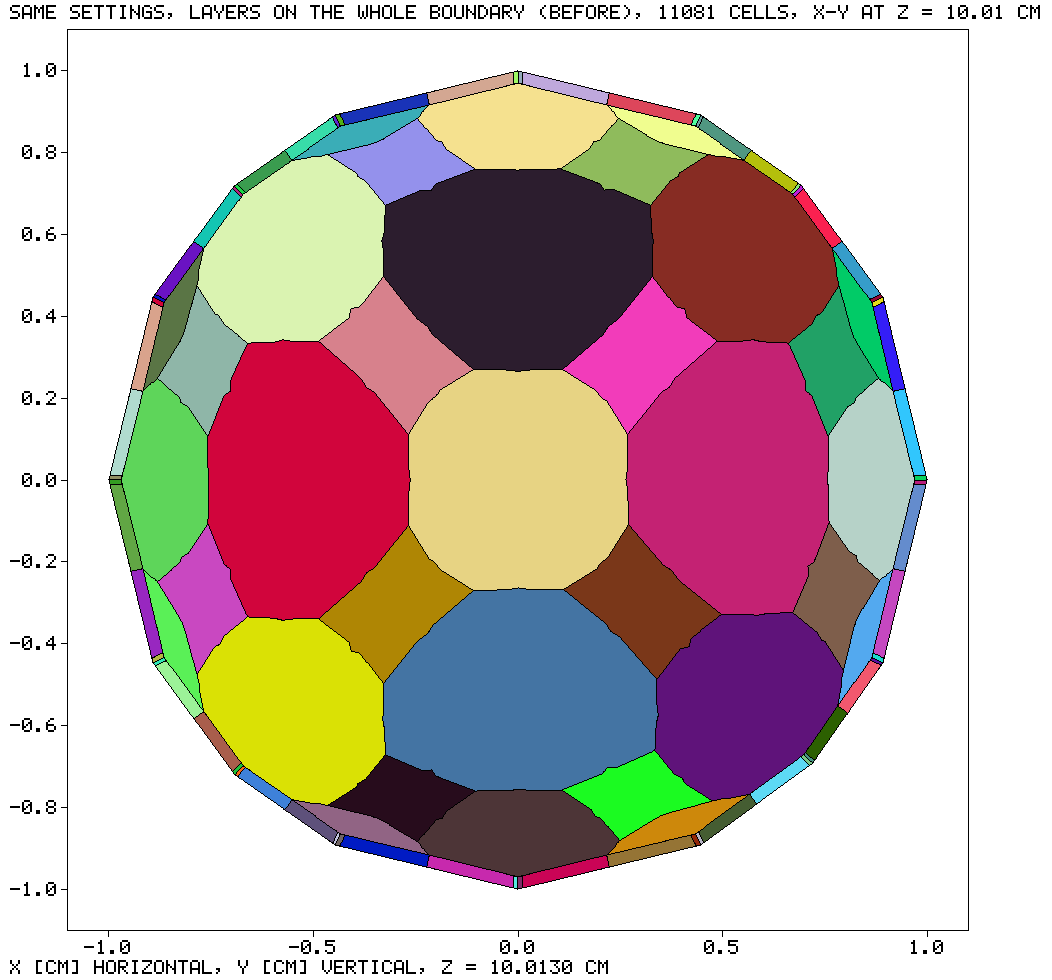
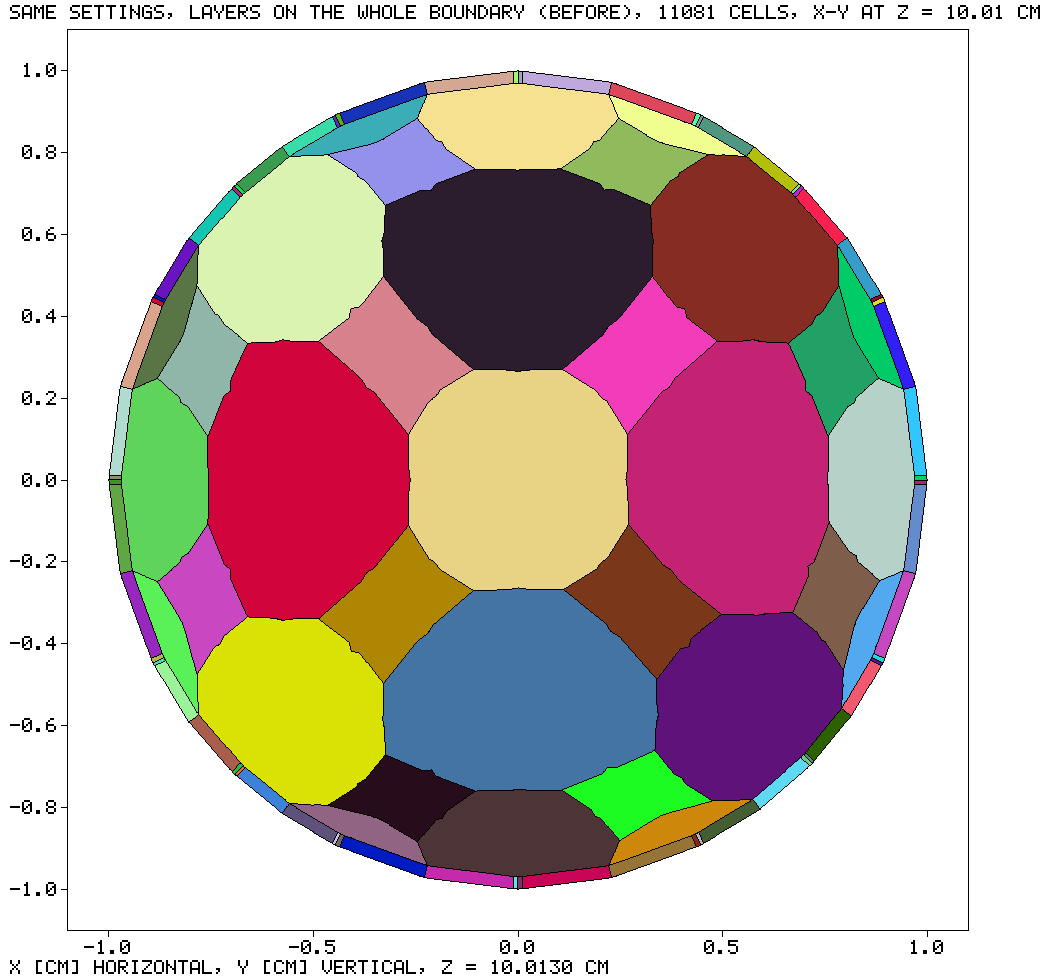
Pipe: layered vs bare at matched cell count, images, docs and pins; open items recorded (gh:#1202)
Layers do not bring tau_w or dp/dz closer to Hagen-Poiseuille at matched
cell count on this mesh family. Demo pin moves to 0.8925 / 1.0326 (old
pins struck). READMEs and the V&V record list the remaining gap.

Claude-Session: https://claude.ai/code/session_01HxmCueofxcJNMntRMmjqoW

diff --git a/crates/dhoby-ghaut/examples/foam_studio_web/engine.rs b/crates/dhoby-ghaut/examples/foam_studio_web/engine.rs
@@ -192,9 +192,13 @@ pub const MAX_LAYERS: usize = 3;
 impl TetDualSpec {
     /// The demo's default for a pipe of radius `radius`: cell 0.4 R, **no
     /// layer** (first layer 0.03 R and expansion 1.2 for when layers are asked
-    /// for). On the demo pipe: 6 353 cells, meshed in about 0.5 s, 61 steps
+    /// for). On the demo pipe: 6 353 cells, meshed in about 0.5 s; ~~61 steps
     /// and about 9 s natively with `Gauss linear` convection, u_c/2U 0.942,
-    /// dp/dz 0.941 × HP (the V&V record). History, all 2026-11-04: ~~2 layers,
+    /// dp/dz 0.941 × HP~~ **UPDATED 2026-11-04 (gh:#1202)**, with the
+    /// feature-edge capture (the inlet now spans 0.9936 πR², was 0.9396) and
+    /// the tutorials' `linearUpwind` + `cellLimited` convection: 29 steps,
+    /// about 5 s, u_c/2U 0.8925, dp/dz 1.0326 × HP (the V&V record). History,
+    /// all 2026-11-04: ~~2 layers,
     /// cell R/2 (18 377 cells)~~ diverged in the solve, as every mesh with 2+
     /// layers did; ~~1 layer, cell R/2 (10 745)~~ and ~~1 layer, cell 0.6 R
     /// (6 713)~~ ran but, with one layer, sit further from Hagen–Poiseuille
@@ -906,7 +910,8 @@ impl Engine {
         let mesh_s = bugis::web_demo::platform::now_s() - t0;
         let quality = outram_foam_mesh::mesh_quality::assess_quality(&poly.to_foam_poly_mesh());
         // Some cfMesh settings leave a near-degenerate cell (the sweep of
-        // 2026-11-04: h 4 mm with 2 layers, skewness 251); say so on the page.
+        // 2026-11-04 before the feature-edge capture and the layer quality
+        // limits: h 4 mm with 2 layers, skewness 251); say so on the page.
         if quality.max_non_ortho_deg >= 89.0 || quality.max_skewness > 20.0 {
             notes.push(format!(
                 "warning: near-degenerate cells (max non-orthogonality {:.1}°, skewness {:.0}); the solve may be poor or diverge, try another cell size",
@@ -1069,8 +1074,8 @@ impl Engine {
         // `limitedLinearV 1` (elbow) or `linearUpwind grad(U)`.
         if matches!(self.design.map(|d| d.mesh), Some(PipeMesh::Unstructured(_))) {
             s.solution.pimple.n_non_orthogonal_correctors = NON_ORTH_UNSTRUCTURED;
-            // Convection: `Gauss linear` on the unstructured mesh (gh:#1202,
-            // 2026-11-04). Upwind on faces oblique to the flow adds cross-stream
+            // ~~Convection: `Gauss linear` on the unstructured mesh~~ (gh:#1202,
+            // 2026-11-04, superseded below). Upwind on faces oblique to the flow adds cross-stream
             // false diffusion of order U·h (Patankar 1980, §5.6), 10-15× ν here:
             // it flattened the developed profile to u_c/2U 0.62. The tutorials on
             // unstructured meshes use second-order upwind-biased schemes
@@ -2355,11 +2360,12 @@ mod tests {
     /// Re = 100, reaches the steady criterion and conserves mass; its patches
     /// arrive named `inlet`, `outlet`, `walls` (typed wall); its developed
     /// numbers are pinned where the V&V record measured them on 2026-11-04
-    /// (`laminar_pipe_gh1155.md`, gh:#1202 section) with `Gauss linear`
-    /// convection and 2 correctors: u_c/2U 0.9416, dp/dz 0.9414 × HP, 6 %
-    /// low, converging with refinement (0.969 / 0.975 at h = R/3). Earlier
+    /// (`laminar_pipe_gh1155.md`, gh:#1202 section): with the feature-edge
+    /// capture and `linearUpwind grad(U)` + `cellLimited Gauss linear 1`,
+    /// 2 correctors: u_c/2U **0.8925**, dp/dz **1.0326** × HP. Earlier
     /// pins, struck: ~~h 6 mm, 1 layer, upwind: 0.6105 / 1.2452 (`limited 0`),
-    /// then 0.6179 / 1.3355 (`limited corrected 0.33`, 2 correctors)~~.
+    /// then 0.6179 / 1.3355 (`limited corrected 0.33`, 2 correctors)~~;
+    /// ~~h 4 mm, `Gauss linear`, chamfered rim: 0.9416 / 0.9414~~.
     /// Pinned so that a change is seen. Deterministic: run twice, the same
     /// lines.
     #[test]
@@ -2376,8 +2382,8 @@ mod tests {
         assert!(joined.contains("6353 cells"), "{joined}");
         let pipe = lines.iter().find(|l| l.starts_with("# pipe (")).expect("pipe line");
         let val = |k: &str| -> f64 { pipe.split_whitespace().find_map(|t| t.strip_prefix(k)).and_then(|v| v.parse().ok()).expect(k) };
-        assert!((val("uc=") - 0.9416).abs() < 2e-3, "{pipe}");
-        assert!((val("dpdz=") - 0.9414).abs() < 2e-3, "{pipe}");
+        assert!((val("uc=") - 0.8925).abs() < 2e-3, "{pipe}");
+        assert!((val("dpdz=") - 1.0326).abs() < 2e-3, "{pipe}");
         let last = lines.iter().rev().find(|l| !l.starts_with('#')).unwrap();
         let out_in: f64 = last.split_whitespace().nth(4).unwrap().parse().unwrap();
         assert!((out_in - 1.0).abs() < 1e-8, "{last}");

diff --git a/crates/dhoby-ghaut/examples/foam_studio_web/app.rs b/crates/dhoby-ghaut/examples/foam_studio_web/app.rs
@@ -466,7 +466,11 @@ impl FoamApp {
                 }
                 if c.n_layers >= 2 {
                     ui.label(
-                        RichText::new("2 or more layers: on every mesh tried so far the solve diverges (the V&V record, gh:#1202). 0 or 1 layer runs.")
+                        RichText::new(if c.n_layers >= 3 {
+                            "3 layers: the solve diverges on the meshes tried (one dual cell over the layer stack, the V&V record, gh:#1202). 0-2 layers run."
+                        } else {
+                            "2 layers run; on this mesh they do not bring the pipe closer to Hagen–Poiseuille than a finer bare mesh (the V&V record, gh:#1202)."
+                        })
                             .small()
                             .color(Color32::from_rgb(250, 189, 47)),
                     );

diff --git a/crates/dhoby-ghaut/examples/foam_studio_web/main.rs b/crates/dhoby-ghaut/examples/foam_studio_web/main.rs
@@ -28,7 +28,9 @@
 //!   `outram_foam_mesh::block_primitives` (the pipe O-grid, the box block),
 //!   and, for the cylinder's **Unstructured** choice (gh:#1202), the cfMesh
 //!   port through `outram_blender::foam_mesh` (tet → polyhedral dual →
-//!   wall-only prism layers, `Gauss linear` convection; 3-6 % below Hagen–Poiseuille, see the V&V
+//!   feature-edge capture, wall-only prism layers, `linearUpwind grad(U)`
+//!   with `cellLimited Gauss linear 1` convection; at the default u_c/2U
+//!   0.89 and dp/dz 1.03 × Hagen–Poiseuille, an open gap, see the V&V
 //!   record's gh:#1202 section);
 //!   the solve is `outram_foam_appbuilder_lib`'s `PimpleFoam` with
 //!   `cases::laminar_pipe`'s boundary conditions. V&V record:

diff --git a/crates/outram-foam-appbuilder-lib/verification_and_validation/laminar_pipe_gh1155.md b/crates/outram-foam-appbuilder-lib/verification_and_validation/laminar_pipe_gh1155.md
@@ -697,7 +697,7 @@ Hagen–Poiseuille relates the centreline velocity and the gradient to the
 flow rate through the section: u_c = 2Q/A, −dp/dz = 8μQ/(πR⁴). The
 nominal normalisation assumes Q = U πR², which is a property of the
 mesh's inlet patch, not of the solution; on the dual it is false by 6 %.
-So, for "does the solver reproduce Hagen–Poiseuille", the right
+~~So, for "does the solver reproduce Hagen–Poiseuille", the right
 instrument is **(b), the fit intercept, normalised by the flow the case
 carries: u_c/2U_b and dp/dz/(8νU_b/R_eq²) with U_b = Q/A** (both exact
 quantities), with (a′) beside it as the whole-profile check. The nominal
@@ -705,7 +705,12 @@ numbers stay reported, because they are what the demo shows and they say
 the demo runs at Re ≈ 94, not 100: **that is a defect of the case**
 (the inlet does not span the pipe) and it is listed to fix, not normalised
 away. On the O-grid the two normalisations differ by the 24-gon's area
-(1.1 %), so the structured record keeps its nominal numbers.
+(1.1 %), so the structured record keeps its nominal numbers.~~
+**CORRECTED (maintainer direction via the coordinator, 2026-11-04): the
+bar's instrument is the nominal one**, u_c and dp/dz against
+Hagen–Poiseuille for the U and R the user set; the flow-normalised numbers
+are diagnostics. The case must carry the flow it says it does, so the
+chamfer was fixed at its source (below), not normalised away.
 
 **Verdict.** The instruments agree that the demo setting's u_c really is
 low: **11 % against its own flow**, with an RMS three times
@@ -1056,7 +1061,61 @@ the pairs below differ by less than 3 % in τ_w/HP and dp/dz/HP, in either
 direction, and the bare mesh at the smaller h is the closer one. Reason:
 at h = 4–6 mm the error is in the core (the profile shape), not in the
 wall gradient, and a layer costs a whole wall's worth of cells that the
-bare mesh spends on the core. **The structured default moved:**
+bare mesh spends on the core.
+
+**Results (2026-11-04, current code: weights, feature-edge capture, layer
+quality limits, warm-started momentum; Re = 100; nominal instrument;
+`FOAM_SWEEP=matched`):**
+
+| cells | mesh | demo pair: steps, u_c/2U, **dp/dz/HP**, RMS, **τ_w/HP** | `Gauss linear`: steps, u_c/2U, **dp/dz/HP**, RMS, **τ_w/HP** |
+|---|---|---|---|
+| 6 353 | h 4 mm, no layer (**default**) | 29, 0.8925, **1.0326**, 0.0356, **1.0312** | 63, 0.9811, **0.9673**, 0.0126, **0.9638** |
+| 6 713 | h 6 mm, 1 layer | 23, 0.8071, 1.0565, 0.0733, 1.0514 | 76, 0.9453, 0.8882, 0.0222, 0.8840 |
+| 11 177 | h 3.3 mm, no layer | 37, 0.9606, **0.9838**, 0.0214, **0.9802** | 54, 0.9669, **0.9632**, 0.0161, **0.9596** |
+| 10 745 | h 5 mm, 1 layer | 28, 0.8954, 0.9705, 0.0509, 0.9678 | 63, 0.9440, 0.9011, 0.0262, 0.8978 |
+| 11 487 | h 6 mm, 2 layers | 39, 0.8079, 1.0883, 0.0729, 1.0653 | 80, 0.9483, 0.9029, 0.0222, 0.8902 |
+| 18 321 | h 4 mm, 1 layer | 73, 0.8907, 1.0301, 0.0372, 1.0215 | 95, 0.9748, 0.9511, 0.0152, 0.9418 |
+| 18 377 | h 5 mm, 2 layers | 117, 0.8990, 0.9946, 0.0500, 0.9785 | 93, 0.9509, 0.9225, 0.0253, 0.9088 |
+
+The warm start changed none of the rows it shares with the earlier table
+to the printed digits (the h 5 mm, 2-layer mesh is new: the pyramid gate
+thinned it).
+
+**Against the prediction.** "Layers do not improve τ_w or dp/dz at matched
+count": **held**. At ~6.5k and ~11k cells the bare mesh is closer to
+Hagen–Poiseuille in τ_w and dp/dz under both schemes; at ~18k, h 5 mm
+with 2 layers beats h 4 mm with 1 under the demo pair (τ_w 0.979 against
+1.022) and loses under `Gauss linear` (0.909 against 0.942). "Within 3 %
+of each other": **missed**: under `Gauss linear` the layered meshes read
+τ_w 6–8 % lower than the bare one at the same count, and under the demo
+pair the 6 mm meshes read 2–8 % higher. Adding layers at fixed h *does*
+move τ_w (h 6 mm `Gauss linear`: 0.903 bare → 0.884 one layer → 0.890
+two), but not toward 1: the layers resolve a wall gradient that is
+already right to a few per cent, while the coarse core sets the error.
+**On this mesh family wall layers are not the lever for the remaining
+gap**; they are offered in the demo because they run (1–2 layers), not
+because they help here.
+
+### Mesh images after this work (drawn from the `PolyMesh` the solver gets)
+
+New in `laminar_pipe_gh1155/unstructured_gh1202/` (2026-11-04,
+`--render-unstructured`; every older image there was regenerated from the
+current mesher too, and now shows the mapped rim):
+`mapped_h4_bare_*` (the demo default, 6 353 cells),
+`mapped_h4_2layers_*` (30 289), `mapped_h4_3layers_*` (42 257), each as
+`xy` (mid-length), `xz_inlet`, `xz_corner` (inlet rim) and `xy_wall` (a
+3.5 mm wall zoom showing the layer stack).
+
+**Checked by eye:** `mapped_h4_bare_xz_corner.png`: the rim is a square
+corner at (1.0, 0) cm, the inlet flat at z = 0 out to the wall, the wall
+straight at x = 1.0 cm down to the inlet (before: a 2 mm × 5 mm chamfer,
+`unstructured_default_7k_xz_corner.png` in its pre-2026-11-04 version).
+`mapped_h4_3layers_xy_wall.png`: three thin prism layers along the wall,
+total about 0.15 mm, under large dual cells (about 1.2 mm across); the
+layer faces meet the dual cells at a visibly oblique angle where a dual
+cell's centre sits sideways of its wall face, which is the 75–84°
+interface non-orthogonality of the table above. **Not checked:** the
+layer stack at the rim in 3-D (the slices cut it in two planes only). **The structured default moved:**
 ~~dp/dz 1.0151~~ **1.0154**; u_c 0.9940 and the 34 steps are unchanged.
 
 ### Mesh images (drawn from the `PolyMesh` the solver gets)
@@ -1085,15 +1144,43 @@ typed `wall`), not drawn.
 
 ### Unresolved (gh:#1202 follow-ups)
 
-- The dual mesh's flat profile and high dp/dz (above): measure the port's
-  corrected Laplacian and Gauss-linear gradient on the dual against the
-  exact quadratic; compare against OpenFOAM on an exported mesh
-  (`export_polymesh`).
-- 2+ layers diverge; 1 layer runs.
-- No feature-edge capture: bent end faces at the rim, chamfered wall.
+**UPDATED 2026-11-04 (end of the merge work).** Status of each item, and
+what is still open:
+
+- ~~The dual mesh's flat profile and high dp/dz~~: the upwind false
+  diffusion (fixed by second-order convection) and the chamfered inlet
+  (fixed by the feature-edge capture) explained most of it. **Still open:
+  a few-per-cent gap at the demo default** (nominal instrument, the bar's:
+  u_c/2U **0.8925**, dp/dz **1.0326** with the demo's `linearUpwind` +
+  `cellLimited`; 0.9811 / 0.9673 with `Gauss linear`; 0.9597 / 1.0210
+  with unlimited `linearUpwind`). The 2 % bar on both is **not met** by
+  any of them. The `cellLimited` choice is explained against the
+  tutorials above (a laminar smooth flow is the `icoFoam/elbow` case,
+  which has no cell limiter); changing it is the maintainer's call.
+  Comparing against OpenFOAM on an exported mesh (`export_polymesh`) is
+  the next check that would separate the port from the mesh.
+- ~~2+ layers diverge; 1 layer runs.~~ **1 and 2 layers run; 3 diverge**
+  (one shrunk dual cell over the layer stack, 75–84° interface); local
+  layer collapse is not ported.
+- ~~No feature-edge capture~~: ported (`surface_mapper`), without
+  `correctEdgesBetweenPatches` (points that would land a face on the rim
+  stay unmapped: 34 at h 6 mm, 126 at 3.3 mm, 0 at the default).
+- ~~19 inward boundary faces~~: 0 on every layered pipe and duct measured
+  (test `every_boundary_face_points_outward_on_layered_pipes_and_ducts`).
 - ~~`limited` snGrad with a coefficient in (0, 1) is not ported.~~ Ported
-  2026-11-04. `cellLimited` gradients and `linearUpwind` / `limitedLinearV`
-  convection, which the tutorials use, were not tried here.
+  2026-11-04. ~~`cellLimited` gradients and `linearUpwind` /
+  `limitedLinearV` convection, which the tutorials use, were not tried
+  here.~~ `linearUpwind` and `cellLimited` ported and measured;
+  `limitedLinearV` (elbow) is not ported.
+- Port defects found and fixed on the way: the linear interpolation
+  weights (`fvc::linear_weight`, now upstream's `makeWeights`), cfMesh's
+  skewness metric (now `faceSkewness`), the cold-started momentum solve
+  (now warm-started, as upstream). The same weight defect is in
+  `outram-park-fork-coolprop` and `tampines-steam-tables`'
+  `openfoam_source/fv_operators/fvc/interpolate.rs`, not changed here.
+- **Structured default re-checked after all of it:** 34 steps, u_c/2U
+  0.9940, ~~dp/dz 1.0151~~ **1.0154** (the weights fix), RMS 0.0063,
+  τ_w 1.0066.
 
 ## Reproduce
 

diff --git a/crates/outram-foam-appbuilder-lib/README.md b/crates/outram-foam-appbuilder-lib/README.md
@@ -104,7 +104,8 @@ The `ddt` and `div` entries of `FvSchemes` are honoured by `PimpleFoam`:
 |---|---|---|
 | `ddtSchemes` | `Euler` (default), `Backward`, `SteadyState` | `CrankNicolson`, `LocalEuler` → `AppBuilderError::UnsupportedScheme` |
 | Rhie–Chow `ddtCorr` (`ddt_corr_scheme`, follows `ddtSchemes`) | `Euler`, `Backward` (BDF2 form, since 2026-11-01), `SteadyState` (zero) | as above |
-| `divSchemes` | `GaussUpwind` (default), `GaussLinear` | `linearUpwind`, `vanLeer`, `MUSCL`, `limitedLinear` → `AppBuilderError::UnsupportedScheme` |
+| `divSchemes` | `GaussUpwind` (default), `GaussLinear`, `GaussLinearUpwind` (since 2026-11-04, gh:#1202, OpenFOAM-dev `linearUpwind.C`) | `vanLeer`, `MUSCL`, `limitedLinear` → `AppBuilderError::UnsupportedScheme` |
+| `gradSchemes`, the `grad(U)` entry (`FvSchemes::grad_u`, else `default_grad`) | `GaussLinear` (default), `CellLimitedGaussLinear(k)` (since 2026-11-04, `cellLimitedGrad<vector, minmod>`) | `leastSquares`, `fourth` → `UnsupportedScheme` |
 
 An unimplemented selection is an **error, never a silent fallback**. Measured
 effect of choosing `Gauss linear` on the Re = 100 lid-driven cavity, 20×20 mesh
@@ -121,8 +122,12 @@ Re = 100 cavity: upwind RMS against Ghia 0.0363 → **0.0207** (max 0.0634 →
 icoFoam at Re = 10, max |ΔU| / U_lid 0.0144 → **0.0062**. The earlier numbers
 here are the record of the pre-fix solver.
 
-`grad`, `laplacian`, `snGrad` and `interpolation` selections are still only
-**stored** — no solver consults them. (Nothing is *parsed* from disk either:
+~~`grad`, `laplacian`, `snGrad` and `interpolation` selections are still only
+**stored** — no solver consults them.~~ **CORRECTED 2026-11-04:** the
+`laplacian` selection is honoured by `PimpleFoam` since gh:#1161, and the
+`grad(U)` selection since gh:#1202 (by `linearUpwind` and by the momentum
+Laplacian's non-orthogonal correction, as upstream's `correctedSnGrad`);
+`snGrad` and `interpolation` are still only **stored**. (Nothing is *parsed* from disk either:
 `FvSchemes::read` is `todo!()`, so the struct is built in Rust.)
 
 ## Case I/O (`io`)
@@ -239,6 +244,18 @@ This crate is at an early stage of a large port. The following are **known,
 real limitations** as of version 0.1.1 — grounded in the code, not aspirational.
 
 ### Verification & validation
+
+- **Open (gh:#1202, 2026-11-04): the laminar pipe on cfMesh's tet-dual mesh
+  is a few per cent off Hagen–Poiseuille.** At the Foam Studio default
+  (h 4 mm, 6 353 cells, `linearUpwind grad(U)` + `cellLimited Gauss linear
+  1`) u_c/2U is 0.893 and dp/dz 1.033 × HP; with `Gauss linear`, 0.981 and
+  0.967. The structured O-grid is within 1–2 %. Fixed on the way: the
+  interpolation weights (now upstream's `makeWeights`), the chamfered rim
+  (feature-edge capture in the cfMesh port; the inlet carried 6 % too
+  little flow), the inward boundary faces and the 2-layer divergence.
+  Still open: 3 wall layers diverge; layers do not improve τ_w or dp/dz at
+  matched cell count; the remaining gap is in the core at this resolution.
+  Record: `verification_and_validation/laminar_pipe_gh1155.md`.
 
 - **Unverified until validated (see banner).** Only the cases with an explicit
   V&V test are trusted; everything else is untrusted draft. The currently

diff --git a/crates/outram-park-fork-cfmesh/README.md b/crates/outram-park-fork-cfmesh/README.md
@@ -255,9 +255,20 @@ the **whole** boundary, `inlet`/`outlet` included — snappyHexMesh's per-patch
 boundary is named before the layer stage and prisms grow on those patches only
 (`layers::add_boundary_layers_adaptive_on_patches`, a port of cfMesh's
 per-patch `boundaryLayers` border rules). Empty keeps the old whole-boundary
-behaviour. Still missing: **feature-edge capture** (cfMesh's
+behaviour. ~~Still missing: **feature-edge capture** (cfMesh's
 `meshSurfaceEdgeExtractor`), so on a pipe the dual's boundary faces wrap round
-the rim and the "flat" ends reach about a quarter cell up the wall.
+the rim and the "flat" ends reach about a quarter cell up the wall.~~
+**UPDATED 2026-11-04 (gh:#1202):** feature-edge capture is ported
+(`surface_mapper`, cfMesh's `meshSurfaceMapper::mapVerticesOntoSurfacePatches`
+with edge and corner nodes) and runs in the multipatch pipeline after the dual
+(`TetDualOptions::feature_edges`, on by default): the Foam Studio pipe's rim is
+square and its inlet spans 0.9936 πR² (was 0.9396). Not ported:
+`correctEdgesBetweenPatches`; where mapping would leave a face on a feature
+edge, those points stay unmapped and the pipeline notes how many. Also since
+2026-11-04: `checks::QualityReport::max_skewness` is OpenFOAM's
+`faceSkewness` (it divided by the centre distance before), and the layer
+back-off applies upstream's layer limits (`maxInternalSkewness 4`, no
+non-positive face pyramid, `minDeterminant 0.001`).
 
 Remaining roadmap (beads under the `op-hzs` epic):
 
@@ -274,8 +285,12 @@ Remaining roadmap (beads under the `op-hzs` epic):
 10. exact/adaptive predicates + size-driven point insertion (rest of `op-38z`)
 11. ~~**patch-selective** layer insertion (layers currently grow over the whole
     boundary, because patch classification runs last) and~~ **patch-selective
-    layers done 2026-11-04 (gh:#1202)**; still to do: feature-edge capture and
-    feature-aware layers
+    layers done 2026-11-04 (gh:#1202)**; ~~still to do: feature-edge capture~~
+    feature-edge capture done 2026-11-04 (without `correctEdgesBetweenPatches`);
+    still to do: feature-aware layers and **local layer collapse** (three
+    layers on the pipe diverge in the solver; the interface to the dual sits
+    at 75–84°, and only a local collapse, snappy-style, can meet upstream's
+    relaxed `maxNonOrtho 75`)
 12. make the adaptive layerer work on graded near-wall meshes — it currently
     backs off to zero thickness there, which the pipeline now *reports* in
     `TetDualReport::stage_notes` rather than failing silently
